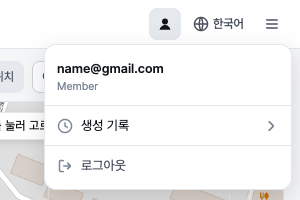
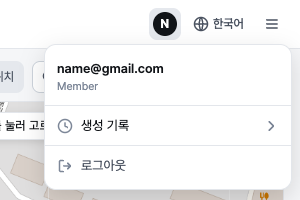
계정: 머리줄 로그인 표시를 메일 머리글자 동그라미로(검정 잉크, 다크에서는 밝게) — 사람 아이콘은 손님 때와 비슷해 로그인한 느낌이 약했다

Changed region(s): [[0.51, 0.06, 0.6, 0.18]]

diff --git a/scripts/site_ui.html b/scripts/site_ui.html
@@ -129,8 +129,7 @@ html:lang(zh-Hans) body { font-family: -apple-system, "PingFang SC", "Microsoft 
 .hdr-login { height: 28px; padding: 0 10px; font-size: 12px; }
 #acct_pop { position: absolute; top: 44px; right: 8px; z-index: 1100; width: 248px; background: var(--surface); border: 1px solid var(--line); border-radius: 12px; box-shadow: 0 8px 24px rgba(0, 0, 0, .14); padding: 4px 0; }
 #acct_pop[hidden] { display: none; }
-#acct_btn { color: var(--ink); }   /* 로그인한 사람 — 웹 머리줄 .account-link.signed-in과 같게 */
-#acct_btn .ico { width: 17px; height: 17px; }   /* 꽉 찬 사람이 지구본·메뉴 선 아이콘보다 작아 보여 웹처럼 17 px */
+#acct_btn .avatar { width: 24px; height: 24px; border-radius: 50%; background: var(--ink); color: var(--on-ink); display: grid; place-items: center; font-size: 12px; line-height: 1; font-weight: 700; text-transform: uppercase; }   /* 로그인 표시 — 메일 머리글자(주 버튼과 같은 잉크, 다크에서는 밝게) */
 #acct_pop .who { display: grid; padding: 10px 12px 10px; min-width: 0; }
 #acct_pop .who .mail { font-weight: 600; overflow: hidden; text-overflow: ellipsis; white-space: nowrap; }
 #acct_pop .who small { color: var(--ink-3); font-size: 11px; line-height: 16px; }
@@ -2649,7 +2648,6 @@ var handlers = {
 // [blender-cut] 회원 — 로그인은 시스템 브라우저(gorani.site/login/)에서, 패널은 계정 상태와 권한만 본다(docs/account_plan.md).
 // 손님이 '고급'을 고르면 플랜 창(Guest · Member), 머리줄 [로그인]·처음 만들기는 작은 로그인 창. 기다리는 동안 account_poll로 묻는다
 var G_LOGO = '<svg class="g" viewBox="0 0 48 48" aria-hidden="true"><path fill="#EA4335" d="M24 9.5c3.54 0 6.71 1.22 9.21 3.6l6.85-6.85C35.9 2.38 30.47 0 24 0 14.62 0 6.51 5.38 2.56 13.22l7.98 6.19C12.43 13.72 17.74 9.5 24 9.5z"/><path fill="#4285F4" d="M46.98 24.55c0-1.57-.15-3.09-.38-4.55H24v9.02h12.94c-.58 2.96-2.26 5.48-4.78 7.18l7.73 6c4.51-4.18 7.09-10.36 7.09-17.65z"/><path fill="#FBBC05" d="M10.53 28.59c-.48-1.45-.76-2.99-.76-4.59s.27-3.14.76-4.59l-7.98-6.19C.92 16.46 0 20.12 0 24c0 3.88.92 7.54 2.56 10.78l7.97-6.19z"/><path fill="#34A853" d="M24 48c6.48 0 11.93-2.13 15.89-5.81l-7.73-6c-2.15 1.45-4.92 2.3-8.16 2.3-6.26 0-11.57-4.22-13.47-9.91l-7.98 6.19C6.51 42.62 14.62 48 24 48z"/></svg>';   // Google G(브랜드 지침 — 로그인 단추에만)
-var ACCT_ICON = '<svg class="ico" viewBox="0 0 16 16" aria-hidden="true"><circle cx="8" cy="5.5" r="3" fill="currentColor" stroke="none"/><path d="M2.5 13.75c.6-2.85 2.85-4.75 5.5-4.75s4.9 1.9 5.5 4.75z" fill="currentColor" stroke="none"/></svg>';   // 로그인한 사람 — gorani.site 머리줄 i-user-on(꽉 찬 사람)과 같게(2026-11-27 사용자)
 ACCT = {
   trial: false, pending: null, poll: null, kind: null,
   st: function () { return (state.init && state.init.account) || { enabled: false }; },
@@ -2668,7 +2666,7 @@ ACCT = {
     if (!s.enabled) { slot.innerHTML = ""; return; }
     slot.innerHTML = this.member()
       ? '<button type="button" class="ib" id="acct_btn" data-act="acct_menu" aria-haspopup="true" aria-expanded="' + !$("acct_pop").hidden + '" aria-label="' + tr("계정") +
-        '" title="' + esc(s.email || "") + '"' + busy + ">" + ACCT_ICON + "</button>"
+        '" title="' + esc(s.email || "") + '"' + busy + '><span class="avatar" aria-hidden="true">' + esc((s.email || "?").charAt(0)) + "</span></button>"   // 로그인 — 메일 머리글자 동그라미(검정, 2026-11-27 사용자)
       : '<button type="button" class="btn sm hdr-login" data-act="acct_open"' + busy + ">" + tr("로그인") + "</button>";
   },
   togglePop: function () {
